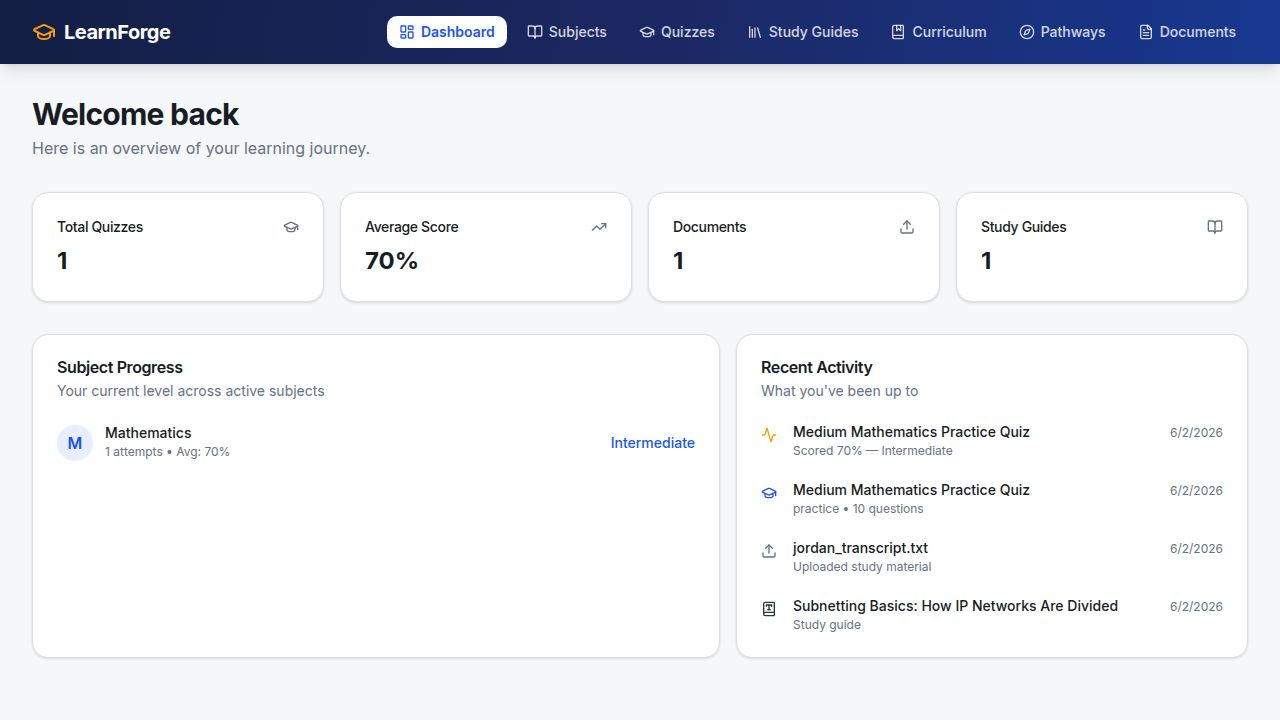
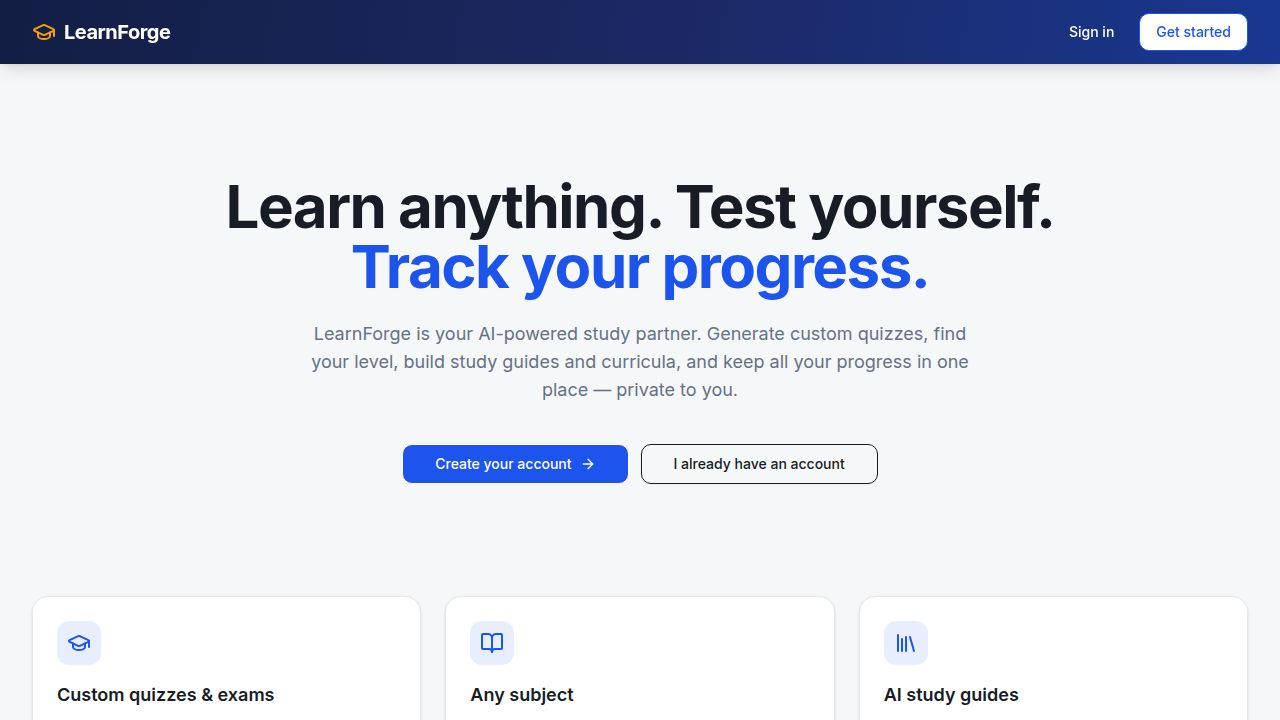
Add ability to generate quizzes for career certifications and job preparation
Introduce career/certification quiz generation, allowing users to select a career and optional topic focus for realistic exam practice.

Replit-Commit-Author: Agent
Replit-Commit-Session-Id: 72d10ebd-3857-42a1-aaa0-6f5880a2cb80
Replit-Commit-Checkpoint-Type: full_checkpoint
Replit-Commit-Event-Id: f7c6f5e9-b2d9-4bb1-9f39-bb3d6260b033
Replit-Commit-Screenshot-Url: https://storage.googleapis.com/screenshot-production-us-central1/f2324b53-2997-48e7-81c2-cc5ed885578e/72d10ebd-3857-42a1-aaa0-6f5880a2cb80/eixlQIS
Replit-Helium-Checkpoint-Created: true

diff --git a/artifacts/learnforge/src/pages/quizzes.tsx b/artifacts/learnforge/src/pages/quizzes.tsx
@@ -19,6 +19,37 @@ import {
 } from "@/components/ui/dialog";
 import { Select, SelectContent, SelectItem, SelectTrigger, SelectValue } from "@/components/ui/select";
 
+const CAREER_OPTIONS = [
+  "Social Services Caseworker",
+  "Certified Nursing Assistant (CNA)",
+  "Medical Assistant",
+  "Pharmacy Technician",
+  "Police Officer",
+  "Firefighter / EMT",
+  "Postal Worker",
+  "Administrative / Office Assistant",
+  "Bookkeeper / Accounting Clerk",
+  "Bank Teller",
+  "Electrician (Apprentice / Journeyman)",
+  "HVAC Technician",
+  "Commercial Driver (CDL)",
+  "IT Support / CompTIA A+",
+  "Project Management (PMP / CAPM)",
+  "Real Estate Agent",
+  "Cosmetology License",
+  "Teacher Certification (Praxis)",
+] as const;
+
+const CAREER_FOCUS_OPTIONS = [
+  { value: "full", label: "Full qualifying test (all sections)" },
+  { value: "Math", label: "Math / Quantitative" },
+  { value: "Reading Comprehension", label: "Reading Comprehension" },
+  { value: "Vocabulary / Verbal", label: "Vocabulary / Verbal" },
+  { value: "Writing / Grammar", label: "Writing / Grammar" },
+  { value: "Situational Judgment", label: "Situational Judgment" },
+  { value: "Job Knowledge / Technical", label: "Job Knowledge / Technical" },
+] as const;
+
 export default function Quizzes() {
   const { data: quizzes, isLoading } = useListQuizzes();
   const { data: subjects } = useListSubjects();
@@ -30,8 +61,11 @@ export default function Quizzes() {
   
   const [isOpen, setIsOpen] = useState(false);
   const [mode, setMode] = useState<QuizGenerateInputMode>("practice");
-  const [sourceType, setSourceType] = useState<"subject"|"document"|"topic">("topic");
+  const [sourceType, setSourceType] = useState<"subject"|"document"|"topic"|"career">("topic");
   const [subjectId, setSubjectId] = useState<string>("");
+  const [career, setCareer] = useState<string>("");
+  const [customCareer, setCustomCareer] = useState<string>("");
+  const [careerFocus, setCareerFocus] = useState<string>("full");
 
   const search = useSearch();
   useEffect(() => {
@@ -56,7 +90,12 @@ export default function Quizzes() {
     };
     if (sourceType === "subject" && subjectId) input.subjectId = parseInt(subjectId);
     if (sourceType === "document" && documentId) input.documentId = parseInt(documentId);
-    if (sourceType === "topic" && topic) input.topic = topic;
+    if (sourceType === "topic" && topic.trim()) input.topic = topic.trim();
+    if (sourceType === "career") {
+      const chosen = career === "__custom" ? customCareer.trim() : career;
+      if (chosen) input.career = chosen;
+      if (careerFocus && careerFocus !== "full") input.topic = careerFocus;
+    }
 
     generateQuiz.mutate({ data: input }, {
       onSuccess: (res) => {
@@ -128,6 +167,7 @@ export default function Quizzes() {
                   <SelectTrigger><SelectValue /></SelectTrigger>
                   <SelectContent>
                     <SelectItem value="topic">Free-form Topic</SelectItem>
+                    <SelectItem value="career">Career / Job or Certification Test</SelectItem>
                     <SelectItem value="subject">From Subject</SelectItem>
                     <SelectItem value="document">From Document</SelectItem>
                   </SelectContent>
@@ -139,6 +179,47 @@ export default function Quizzes() {
                   <label className="text-sm font-medium">Topic</label>
                   <Input value={topic} onChange={e => setTopic(e.target.value)} placeholder="e.g. React Hooks, French Revolution..." />
                 </div>
+              )}
+
+              {sourceType === "career" && (
+                <>
+                  <div className="space-y-2">
+                    <label className="text-sm font-medium">Career / Certification</label>
+                    <Select value={career} onValueChange={setCareer}>
+                      <SelectTrigger><SelectValue placeholder="Select a career or certification..." /></SelectTrigger>
+                      <SelectContent>
+                        {CAREER_OPTIONS.map((c) => (
+                          <SelectItem key={c} value={c}>{c}</SelectItem>
+                        ))}
+                        <SelectItem value="__custom">Other (type your own)</SelectItem>
+                      </SelectContent>
+                    </Select>
+                  </div>
+                  {career === "__custom" && (
+                    <div className="space-y-2">
+                      <label className="text-sm font-medium">Job or certification name</label>
+                      <Input
+                        value={customCareer}
+                        onChange={(e) => setCustomCareer(e.target.value)}
+                        placeholder="e.g. Dental Hygienist, AWS Certified..."
+                      />
+                    </div>
+                  )}
+                  <div className="space-y-2">
+                    <label className="text-sm font-medium">Test section</label>
+                    <Select value={careerFocus} onValueChange={setCareerFocus}>
+                      <SelectTrigger><SelectValue /></SelectTrigger>
+                      <SelectContent>
+                        {CAREER_FOCUS_OPTIONS.map((f) => (
+                          <SelectItem key={f.value} value={f.value}>{f.label}</SelectItem>
+                        ))}
+                      </SelectContent>
+                    </Select>
+                    <p className="text-xs text-muted-foreground">
+                      The AI researches the real exam for this role and writes practice questions for the section you pick.
+                    </p>
+                  </div>
+                </>
               )}
 
               {sourceType === "subject" && (
@@ -185,9 +266,11 @@ export default function Quizzes() {
                 onClick={handleGenerate}
                 disabled={
                   generateQuiz.isPending ||
-                  (sourceType === "topic" && !topic) ||
+                  (sourceType === "topic" && !topic.trim()) ||
                   (sourceType === "subject" && !subjectId) ||
-                  (sourceType === "document" && !documentId)
+                  (sourceType === "document" && !documentId) ||
+                  (sourceType === "career" &&
+                    (!career || (career === "__custom" && !customCareer.trim())))
                 }
               >
                 {generateQuiz.isPending && <Loader2 className="mr-2 h-4 w-4 animate-spin" />}
@@ -216,7 +299,7 @@ export default function Quizzes() {
                     <span className="px-2 py-0.5 rounded-full bg-secondary text-secondary-foreground text-xs font-medium uppercase tracking-wider">{quiz.difficulty}</span>
                   </div>
                   <p className="text-sm text-muted-foreground">
-                    {quiz.questionCount} questions • {quiz.topic || quiz.subjectName || "Custom Assessment"}
+                    {quiz.questionCount} questions • {quiz.career ? `${quiz.career}${quiz.topic ? ` (${quiz.topic})` : ""}` : quiz.topic || quiz.subjectName || "Custom Assessment"}
                   </p>
                 </div>
                 <div className="flex items-center gap-2 text-sm text-muted-foreground shrink-0">

diff --git a/artifacts/api-server/src/lib/ai.ts b/artifacts/api-server/src/lib/ai.ts
@@ -16,6 +16,7 @@ export type GenerateQuizArgs = {
   subjectName?: string;
   topic?: string;
   documentName?: string;
+  career?: string;
   difficulty: string;
   questionCount: number;
 };
@@ -28,14 +29,17 @@ export type GeneratedQuiz = {
 export async function generateQuizContent(
   args: GenerateQuizArgs,
 ): Promise<GeneratedQuiz> {
-  const { mode, subjectName, topic, documentName, difficulty, questionCount } =
+  const { mode, subjectName, topic, documentName, career, difficulty, questionCount } =
     args;
 
   const variationKey = `${Date.now().toString(36)}-${Math.random()
     .toString(36)
     .slice(2, 10)}`;
 
+  const careerName = career?.trim();
+
   const focus =
+    careerName ??
     topic ??
     subjectName ??
     documentName ??
@@ -48,13 +52,25 @@ export async function generateQuizContent(
         ? "a comprehensive exam"
         : "a focused practice quiz";
 
-  const system =
-    "You are an expert instructional designer who writes high quality multiple-choice assessment questions. " +
-    "Every question has exactly 4 options, exactly one correct answer, and a concise explanation. " +
-    "Return ONLY valid JSON, no prose, no markdown fences.";
+  const system = careerName
+    ? "You are an expert exam-prep author who builds realistic practice tests that mirror the official hiring, qualifying, civil-service, and professional certification exams used for specific jobs. " +
+      "Base every question on the real competencies and section content those exams actually assess; do not invent fictional test formats. " +
+      "Every question has exactly 4 options, exactly one correct answer, and a concise explanation that teaches the underlying concept. " +
+      "Return ONLY valid JSON, no prose, no markdown fences."
+    : "You are an expert instructional designer who writes high quality multiple-choice assessment questions. " +
+      "Every question has exactly 4 options, exactly one correct answer, and a concise explanation. " +
+      "Return ONLY valid JSON, no prose, no markdown fences.";
+
+  const careerInstructions = careerName
+    ? `This is a job-readiness / certification practice test for the role: "${careerName}".
+First determine which official test(s) a candidate for this role must pass (e.g. civil-service exams, licensing or professional certification exams, employer screening tests) and which sections/competencies those exams assess.
+${topic ? `Focus this test specifically on the "${topic}" section/competency of that exam (for example, if the focus is "Math", write the kind of quantitative questions that exam asks: arithmetic, fractions, decimals, percentages, ratios and proportions, basic algebra, unit conversions, reading tables/charts, and real-world word problems framed around the job's daily tasks).` : `Cover the core sections of that exam proportionally (for example, quantitative/math reasoning, reading comprehension, vocabulary, and situational-judgment where applicable), weighting the sections the way the real exam does.`}
+Match the realistic style, framing, and difficulty of the actual exam so this serves as genuine preparation.
+`
+    : "";
 
   const user = `Create ${modeDescription} about "${focus}".
-Difficulty: ${difficulty}.
+${careerInstructions}Difficulty: ${difficulty}.
 Number of questions: ${questionCount}.
 ${documentName ? `The material is based on an uploaded document named "${documentName}".` : ""}
 

diff --git a/artifacts/api-server/src/routes/quizzes.ts b/artifacts/api-server/src/routes/quizzes.ts
@@ -39,6 +39,7 @@ function toQuizResponse(quiz: Quiz, subjectName: string | null) {
     subjectName,
     documentId: quiz.documentId,
     topic: quiz.topic,
+    career: quiz.career,
     difficulty: quiz.difficulty,
     questionCount: quiz.questionCount,
     createdAt: quiz.createdAt,
@@ -74,6 +75,7 @@ router.get("/quizzes", async (req, res): Promise<void> => {
     subjectId: quiz.subjectId,
     subjectName: quiz.subjectId != null ? (nameById.get(quiz.subjectId) ?? null) : null,
     topic: quiz.topic,
+    career: quiz.career,
     difficulty: quiz.difficulty,
     questionCount: quiz.questionCount,
     createdAt: quiz.createdAt,
@@ -89,13 +91,20 @@ router.post("/quizzes/generate", async (req, res): Promise<void> => {
     return;
   }
 
-  const { mode, subjectId, documentId, topic, title, difficulty, questionCount } =
+  const { mode, subjectId, documentId, topic, career, title, difficulty, questionCount } =
     parsed.data;
 
-  if (subjectId == null && documentId == null && (!topic || !topic.trim())) {
+  const careerName = career?.trim() || null;
+
+  if (
+    subjectId == null &&
+    documentId == null &&
+    !careerName &&
+    (!topic || !topic.trim())
+  ) {
     res
       .status(400)
-      .json({ error: "Provide a subject, a document, or a topic to generate from" });
+      .json({ error: "Provide a career, subject, document, or topic to generate from" });
     return;
   }
 
@@ -148,6 +157,7 @@ router.post("/quizzes/generate", async (req, res): Promise<void> => {
       subjectName: subjectName ?? undefined,
       topic: topic ?? undefined,
       documentName,
+      career: careerName ?? undefined,
       difficulty: resolvedDifficulty,
       questionCount: resolvedCount,
     });
@@ -166,6 +176,7 @@ router.post("/quizzes/generate", async (req, res): Promise<void> => {
       subjectId: subjectId ?? null,
       documentId: documentId ?? null,
       topic: topic ?? null,
+      career: careerName,
       difficulty: resolvedDifficulty,
       questionCount: generated.questions.length,
       questions: generated.questions,
@@ -241,6 +252,7 @@ router.post("/quizzes/:id/refresh", async (req, res): Promise<void> => {
       subjectName: subjectName ?? undefined,
       topic: quiz.topic ?? undefined,
       documentName,
+      career: quiz.career ?? undefined,
       difficulty: quiz.difficulty,
       questionCount: quiz.questionCount || 8,
     });

diff --git a/lib/db/src/schema/quizzes.ts b/lib/db/src/schema/quizzes.ts
@@ -32,6 +32,7 @@ export const quizzesTable = pgTable("quizzes", {
     onDelete: "set null",
   }),
   topic: text("topic"),
+  career: text("career"),
   difficulty: text("difficulty").notNull().default("medium"),
   questionCount: integer("question_count").notNull().default(0),
   questions: jsonb("questions").$type<QuizQuestion[]>().notNull().default([]),

diff --git a/replit.md b/replit.md
@@ -47,7 +47,7 @@ An AI-powered learning and test-prep web app: pick any subject, generate custom 
 
 - Dashboard: progress summary, recent activity, per-subject levels
 - Subjects: browse and create custom subjects
-- Quizzes: generate placement/practice/exam quizzes from a subject, document, or free-form topic; each time you take one, a fresh set of questions is generated (you can't just memorize answers); get scored results with explanations and an assessed level
+- Quizzes: generate placement/practice/exam quizzes from a subject, document, free-form topic, or a career/certification (a realistic practice test that mirrors the real hiring or professional certification exam for that role, picked from a curated dropdown with an "Other" custom entry, plus an optional test-section focus like Math/Reading/Situational Judgment passed via `topic`; `career` is stored on the quiz so refresh regenerates in the same context). Each time you take one, a fresh set of questions is generated (you can't just memorize answers); get scored results with explanations and an assessed level
 - Learn: AI study guides for any topic (summary, sections, key points, next steps)
 - Curriculum: after an assessment (or from the Curriculum page), generate a tailored learning plan for a subject + assessed level. The AI returns ordered modules, each grouping the best real learning materials (books, videos, worksheets, tools, courses) with author/provider and a "where to find it" note (no fabricated URLs). The "Build my curriculum" button on the quiz results page seeds generation with the subject, assessed level, and the prompts of missed questions as focus areas. Plans are saved and browsable. Mirrors the Career Pathways architecture (schema/route/openapi/codegen/list+detail pages).
 - Documents: upload PDFs/files to use as quiz source material